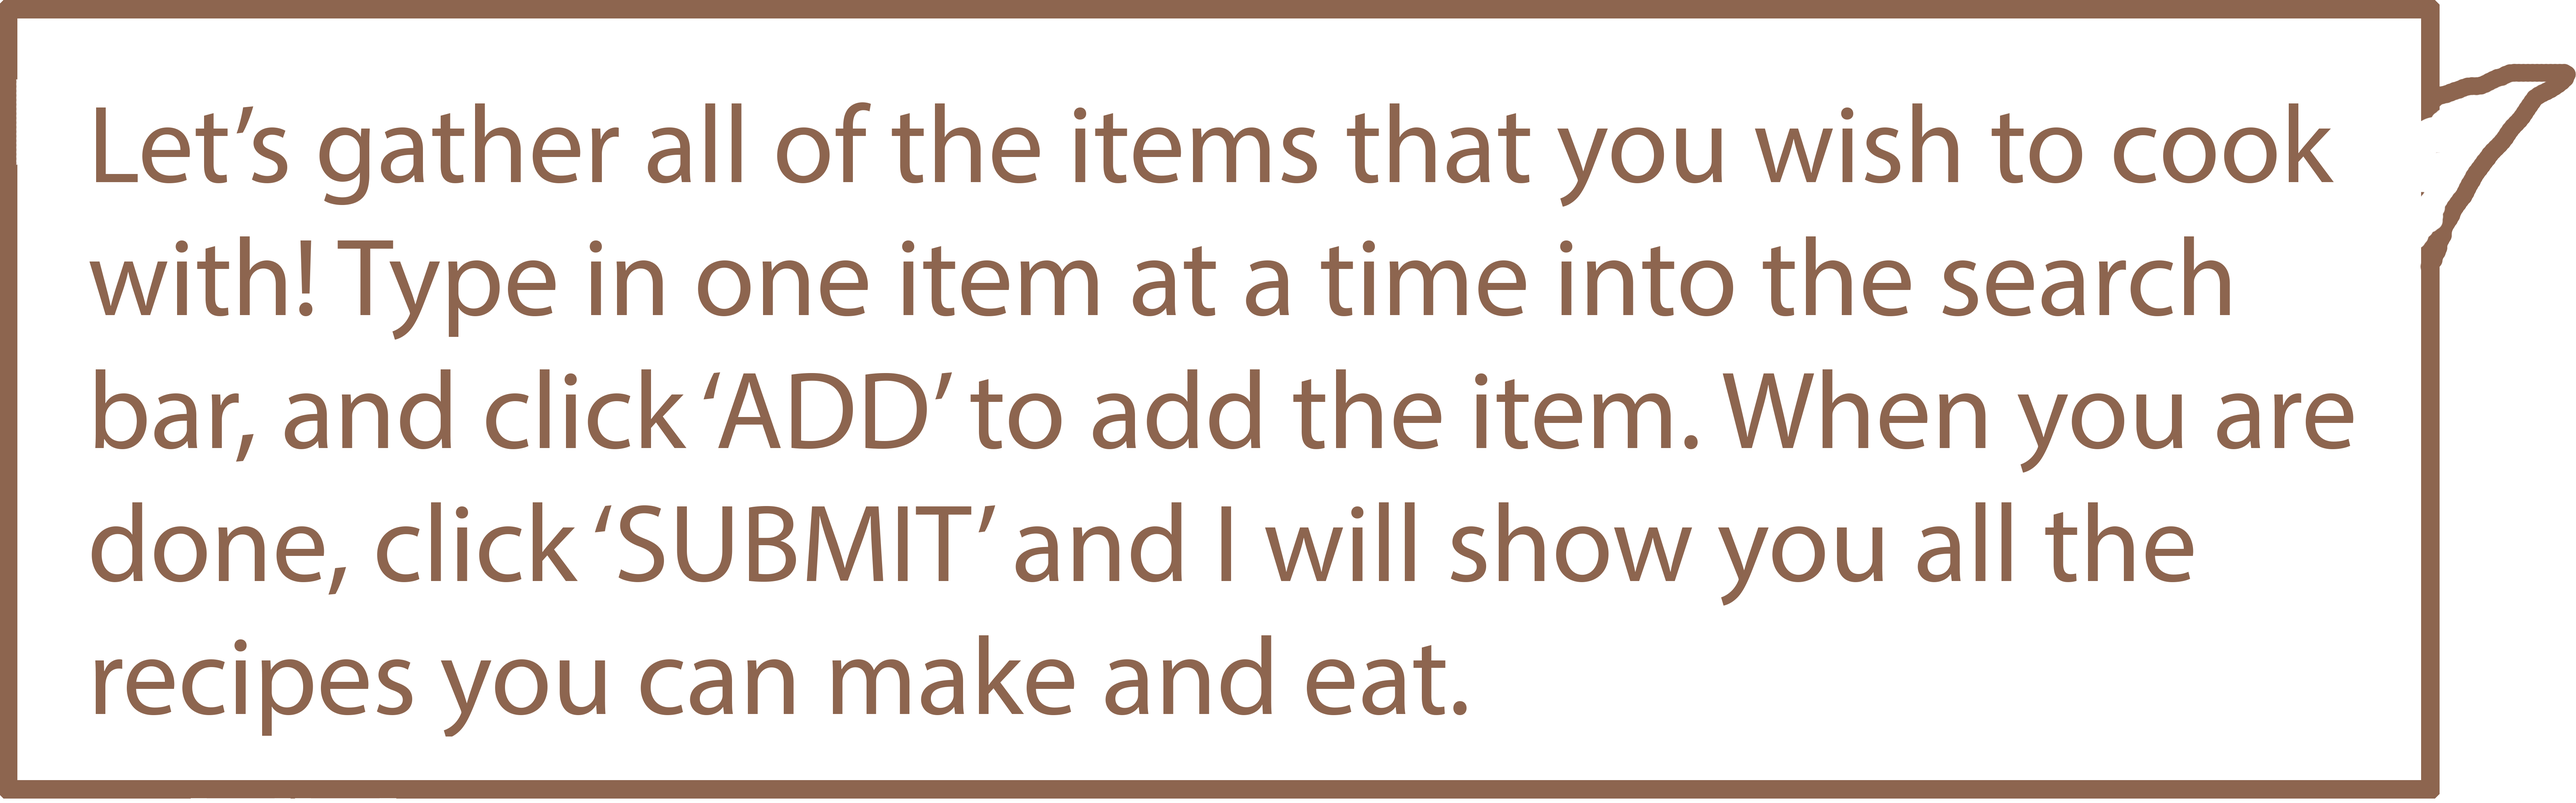
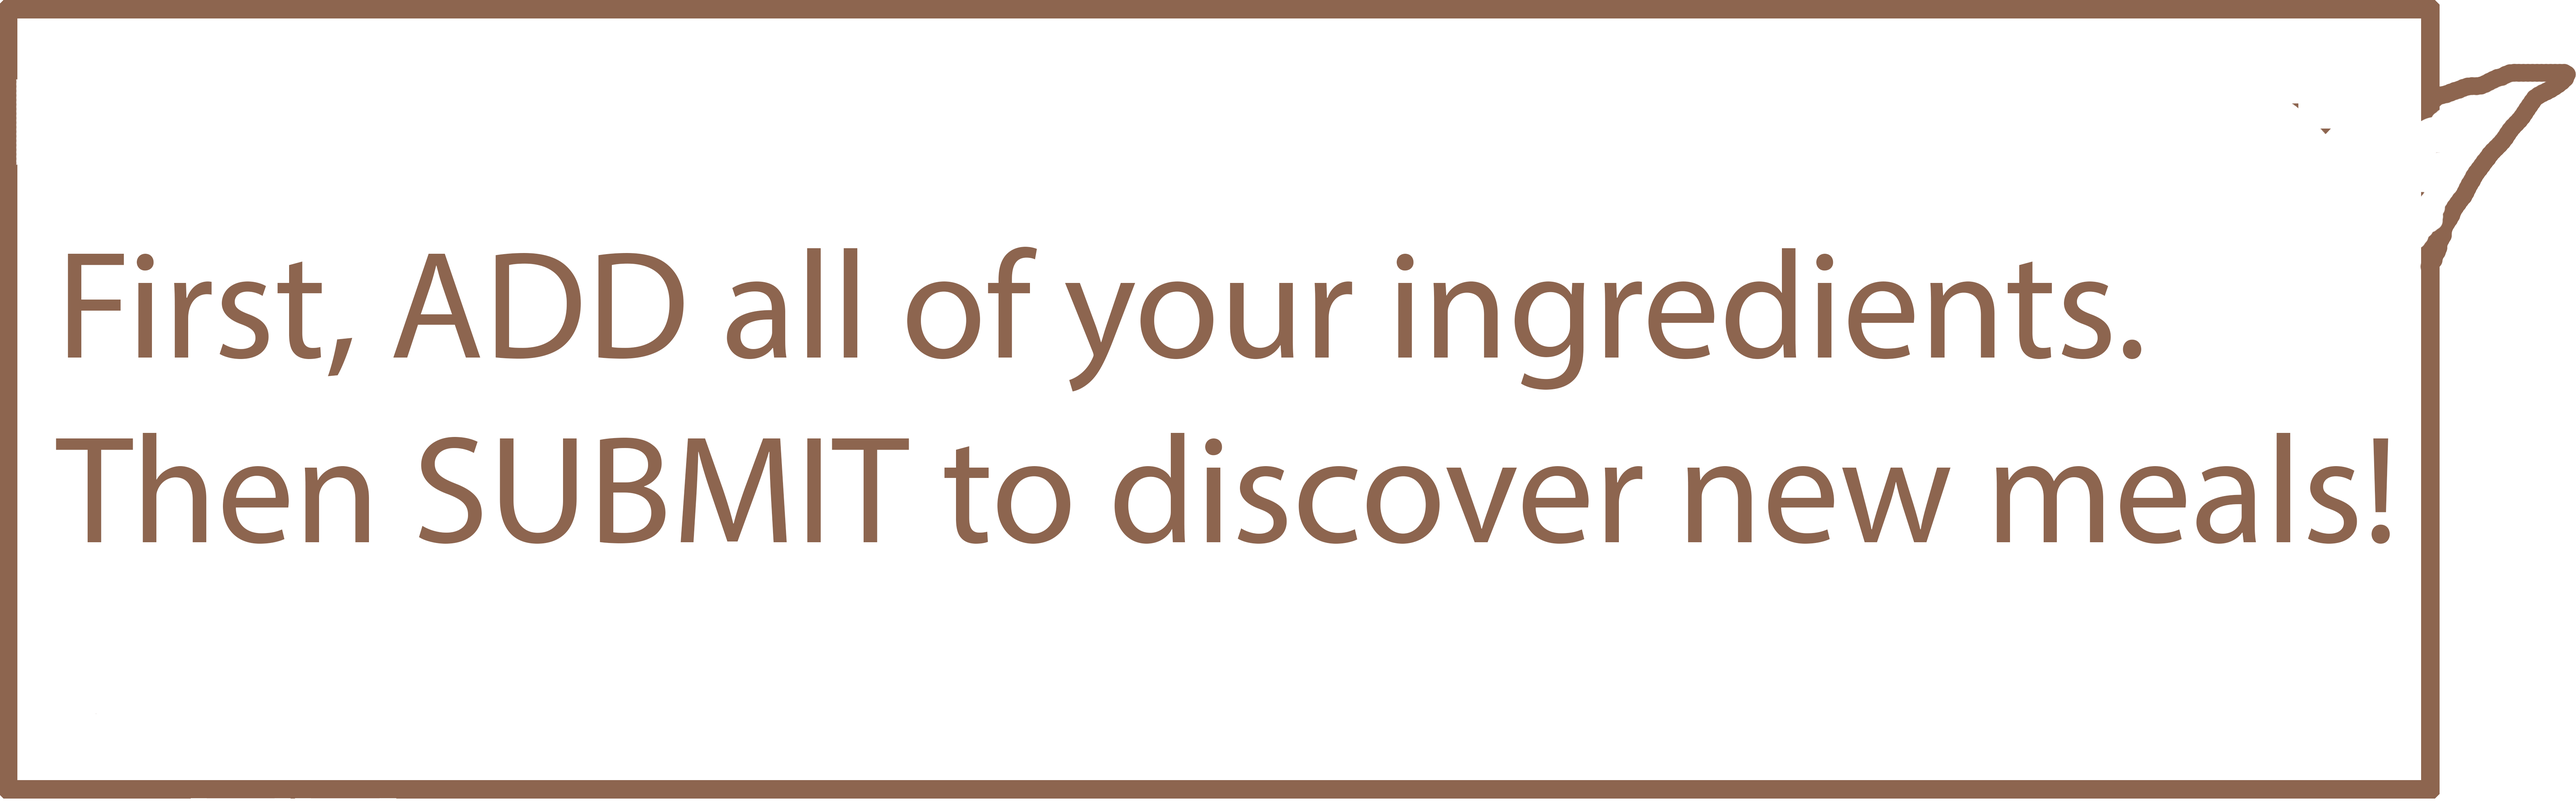
lucky, fixed a lot of css and added event listeners

Changed region(s): [[0.0, 0.1233, 0.9343, 0.7397], [0.0311, 0.8013, 0.5606, 0.9246]]

diff --git a/public/js/homepage.js b/public/js/homepage.js
@@ -10,24 +10,19 @@ function checkRecipeList(e) {
     console.log("Checking recipe list!");
 }
 
-//$('input.solid').click(clickAdd); // remove if you want to use the above code
-
-//function clickAdd(e){   
-    // To Disable Submit Button By Default
-    
-    /*if( jQuery.isEmptyObject(data) == true ){
-        document.getElementById("item").style.display = "none";
-        $('button.submit').prop('disabled', true);
-    }
-    else{
-        $('button.submit').prop('disabled', false);
-        return;
-    }*/
-//}
-
-$("li#item").on("click", function(){
+$('li#item').on('click', function(){
     $(this).css('display','none');
     var item = $(this).text();
     item = item.slice(0, item.length - 2);
     $.post('/delete', {'item': item});
+});
+
+$('.submit-disabled').click(function(){
+    $('.speechbubble').attr('src', 'img/submit-oops.png').addClass("animated bounce");
+    $('.maintastebuddy').addClass("animated bounce");
+    
+});
+
+$('#addBtn').click(function(){
+    $('.speechbubble').attr('src', 'img/yumhomepage.png').addClass("animated bounce");
 });

diff --git a/public/js/help.js b/public/js/help.js
@@ -8,20 +8,20 @@ function clickRight(e) {
     rightCount +=1;
     
     if(rightCount == 1){
-         $('img.speechbubble').attr('src', 'img/help.buddystep2.png');
+         $('img.speechbubble').attr('src', 'img/help.buddystep2.png')
     }
     else if(rightCount == 2){
-         $('img.speechbubble').attr('src', 'img/help.buddystep3.png');
+         $('img.speechbubble').attr('src', 'img/help.buddystep3.png')
     }
 }
 
 function clickLeft(e) {
     leftCount +=1;
     if(leftCount == 1){
-         $('img.speechbubble').attr('src', 'img/help.buddystep2.png');
+         $('img.speechbubble').attr('src', 'img/help.buddystep2.png')
     }
     else if(leftCount == 2){
-         $('img.speechbubble').attr('src', 'img/help.buddystep1.png');
+         $('img.speechbubble').attr('src', 'img/help.buddystep1.png')
     }
 }
    

diff --git a/public/css/homepage.css b/public/css/homepage.css
@@ -99,6 +99,22 @@ button.submit{
     box-shadow: inset 0 0 3px rgba(255, 255, 255, 0.6), inset 0 -1px 2px rgba(255, 255, 255, 0.7), 0 -5px 0 #FFEE00, 0 -6px 0 #FFEE00;
 }
 
+/* Styles the submit button */
+button.submit-disabled{ 
+    width: 100px; 
+    padding: 8px 6px; 
+    margin-left: 25px; margin-top: 50px;
+    background-color: lightgray; 
+    color: gray;
+    text-transform: uppercase; 
+    font-weight: bold; 
+    border: 1px solid dimgray; 
+    border-radius: 5px; 
+    font-family: 'Candal', sans-serif;
+    
+    text-shadow: 0 1px 2px rgba(255, 255, 255, 0.7), 0 -1px 0 #CC9900;  
+    box-shadow: inset 0 0 3px rgba(255, 255, 255, 0.6), inset 0 -1px 2px rgba(255, 255, 255, 0.7), 0 -5px 0 darkgray, 0 -6px 0 darkgray;
+}
 
 /* Styles the help button */
 button.help{ 

diff --git a/public/css/chickensandwichrecipe.css b/public/css/chickensandwichrecipe.css
@@ -11,10 +11,12 @@ div.recipe{
 div.directions{
     margin-bottom: 150px;
 }
+
 h1{
     color: white;
     font-family: 'Candal', sans-serif;
     text-align: center;
+    font-size: 30px;
 }
 
 h2{
@@ -50,29 +52,11 @@ p#servings{
     padding-bottom: 1px;
 }
 
-/*
-.want{
-    background-color: #FF6666;
-    border-radius: 20px;
-    margin-left: 10px; margin-right: 10px;
-    padding-bottom: 1px;
-}*/
-
 .directions{
     background-color: #FF6666;
     border-radius: 20px;
     margin-left: 10px; margin-right: 10px;
     padding-bottom: 1px;
-}
-
-.bookmark {
-    position: relative;
-    top: -120px;
-}
-
-.completion {
-    position: relative;
-    top: -120px;
 }
 
 p{

diff --git a/public/css/stylesheet.css b/public/css/stylesheet.css
@@ -130,7 +130,9 @@ div {
 }
 
 .tastebtn{
-    padding-top: 500px;
+    position: relative; 
+    margin-top: 5px;
+    bottom: 5px;
     width: relative; 
     padding: 8px 6px; 
     background-color: #FEF99D; 
@@ -143,6 +145,14 @@ div {
 
     text-shadow: 0 1px 2px rgba(255, 255, 255, 0.7), 0 -1px 0 #CC9900;  
     box-shadow: inset 0 0 3px rgba(255, 255, 255, 0.6), inset 0 -1px 2px rgba(255, 255, 255, 0.7), 0 -5px 0 #FFEE00, 0 -6px 0 #FFEE00;
+}
+
+a#bookmark{
+    color: #CC9900;
+}
+
+a#completion{
+    color: #CC9900;
 }
 
 

diff --git a/public/js/bookmarkaction.js b/public/js/bookmarkaction.js
@@ -13,6 +13,17 @@ $('button.bookmark').click(function(){
 	console.log(send);
     
 	$.post('/bookmarked', send , function (res) {});
-    $(this).text('bookmarked');
+    var friendName = clickBookmark($(this).text());
+	console.log($(this).text());
+	$(this).text(friendName);
 
 });
+
+function clickBookmark(e){
+    if (e == 'Bookmark'){
+        return 'Bookmarked';
+    }
+    else if (e == 'Bookmarked'){
+        return 'Bookmark';
+    }
+}

diff --git a/public/css/recipes.css b/public/css/recipes.css
@@ -19,7 +19,7 @@ p#description{
 div.recipeslist{
     position: relative; top: -40px;
     border-top: 5px solid #FF6666;
-    height: 500px; 
+    height: 400px; 
     overflow-y:scroll;
 }
 

diff --git a/public/css/profile.css b/public/css/profile.css
@@ -39,8 +39,10 @@ body {
 
 h1{
     font-family: 'Candal', sans-serif;
+    color: white;
 }
 
 h3{
     font-family: 'Candal', sans-serif;
+    color: white;
 }

diff --git a/public/css/login.css b/public/css/login.css
@@ -176,6 +176,7 @@ textarea {
   transition: all 0.5s ease;
   -webkit-appearance: none;
 }
+
 .button:hover, .button:focus {
   background: #fab13e;
 }

diff --git a/public/css/tastebuddies.css b/public/css/tastebuddies.css
@@ -11,6 +11,8 @@ h1{
 
 div.tastebuddylist{
     border-top: 5px solid #FF6666;   
+    height:300px; 
+    overflow-y:scroll;
 }
 
 p#description{

diff --git a/public/css/help.css b/public/css/help.css
@@ -2,7 +2,7 @@ body{
     background-color: #FF6666;
     margin: 1px;
     position: relative;
-    top: -55px;
+    top: -45px;
 }
 
 h1{
